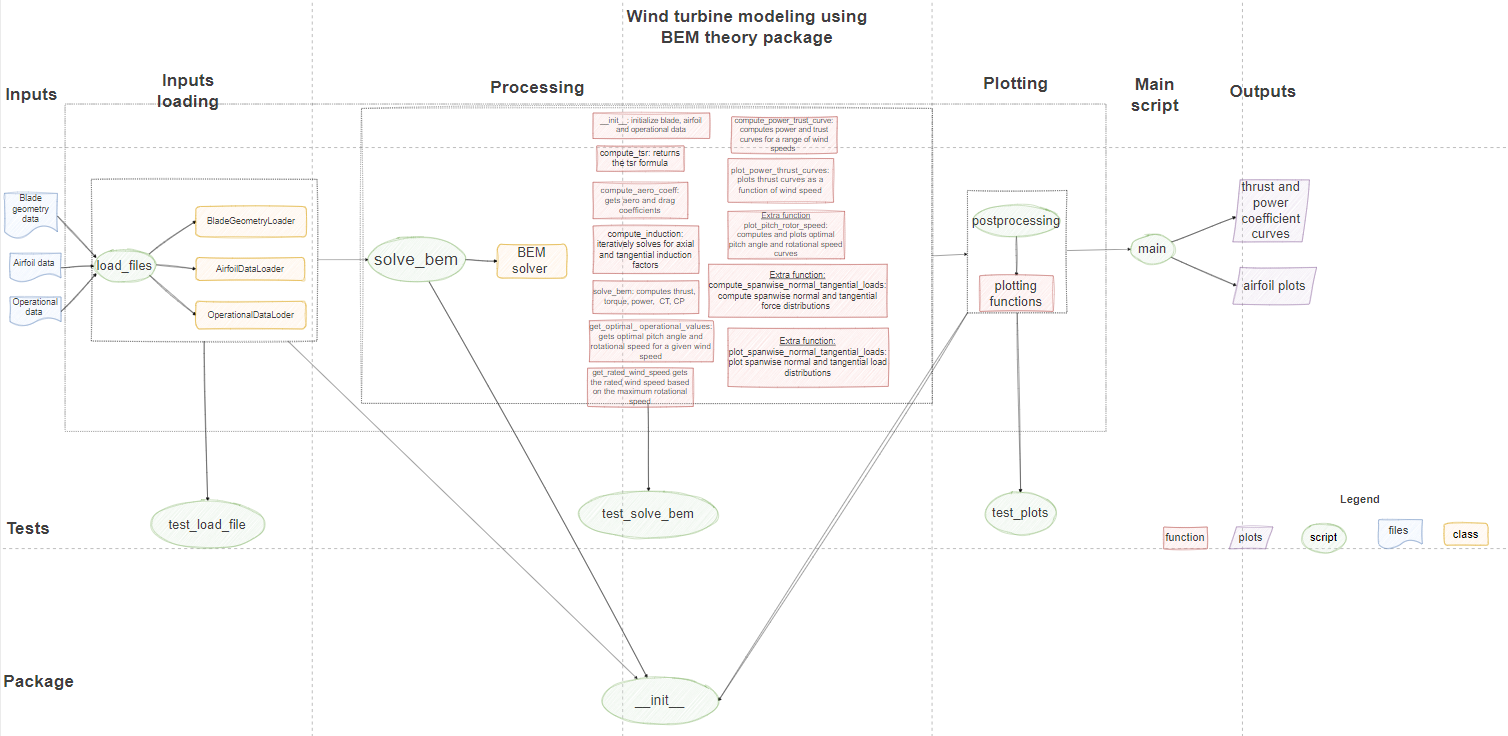
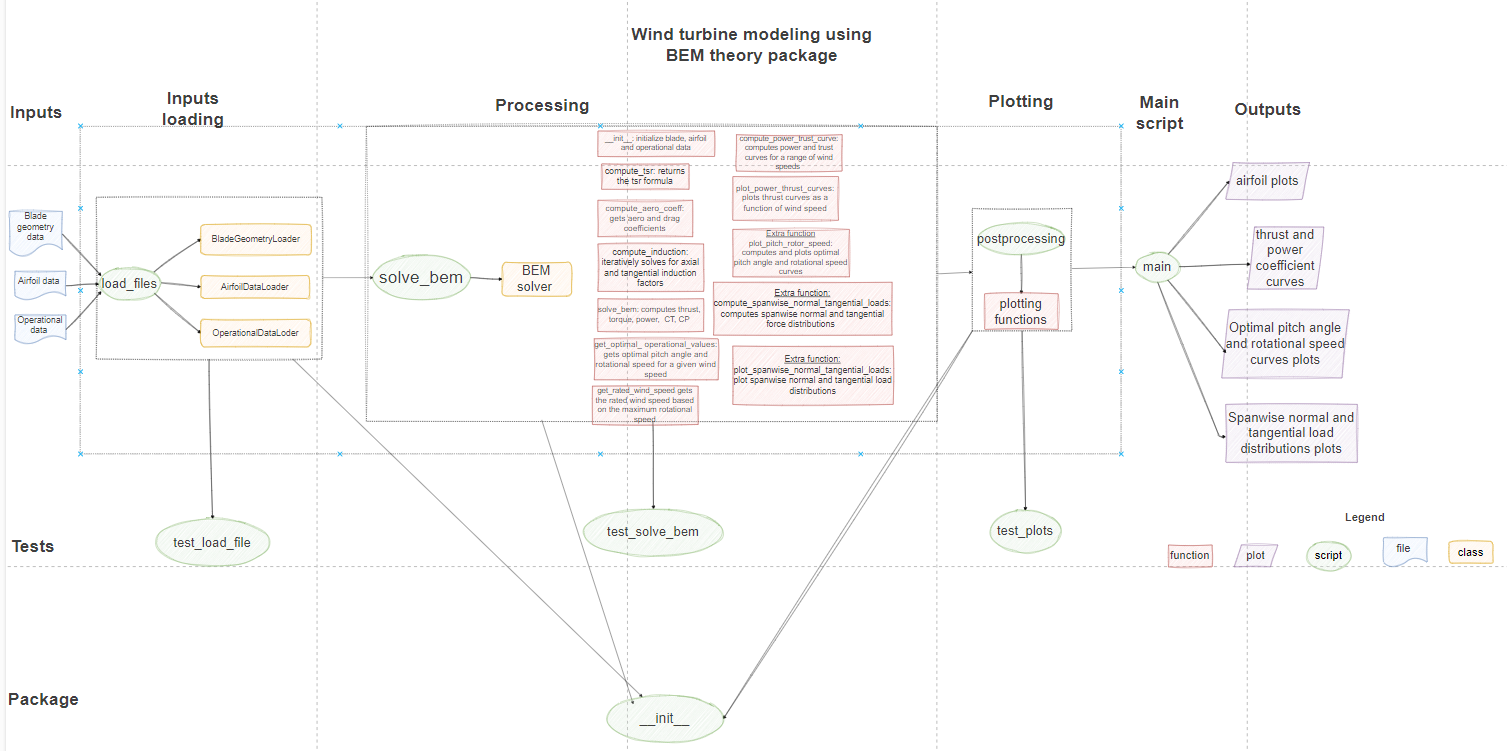
Corrected diagram to include also the plots from the extra functions.

diff --git a/README.md b/README.md
@@ -20,7 +20,8 @@ The code performs the following key tasks:
 - Computes the thrust torque and power.
 - Computes optimal operational strategy.
 - Computes power and thrust.
-- Compute spanwise loads (tangential and normal)
+- Computes spanwise loads (tangential and normal).
+- Computes optimal pitch angle and rotational speed curves.
 - Generates plots.
 
 ## Quick-start guide
@@ -100,11 +101,11 @@ The project consists of the following core components:
 ### **`solve_bem.py`** - Class for Simulation:
       - BEMSolver: this class computes the rotational speed as well as the thrust, torque, power, lift and drag coefficients.
 ### **`postprocessing.py`** - Plots
-      - Results Processing & Visualization through plots
+      - Results Processing and Visualization through plots.
 
 ## Architecture
 
-The package takes the blade geometry data, the airfoil data and the operational data through three different classes and uses them in the BEMsolver class contained in the solve_bem script. In the postprocessing folder the plotting function are defined and all the scripts can be run through main.py by recalling the package wt.
+The package takes the blade geometry data, the airfoil data and the operational data through three different classes and uses them in the BEMsolver class contained in the solve_bem script. In the postprocessing folder, the plotting functions are defined and all the scripts can be run through main.py by recalling the package wt.
 
 ![alt text](inputs/Diagram.png)
 
@@ -114,6 +115,6 @@ The diagram source file can be found [here](inputs/project_structure.drawio).
 
 For this project, everybody tried to understand and begin to approach the code alone. This to have a deep understanding of the problem and a structured idea on how to solve it. 
 Every Tuesday morning and Thursday after class we have implemented the code for the files contained in our package wt, by following the project structure and guidelines.After ensuring that the package was working correctly, we have created main.py to be able to see the results and plots.
-Then, three tests for each file contained in the wt package have been created and tested, to be sure they were correct.
+Then, three tests for each file contained in the wt package have been created and verified, to be sure they were correct.
 Lastly, Pylint guidelines have been applied to the codes and this README file has been created.
-This group workflow can be clearly seen in the pull request history, which has been frequently updated by different team member in agreement with the others. 
+This group workflow can be clearly seen in the pull request history, which has been frequently updated by a different team member in agreement with the others. 
